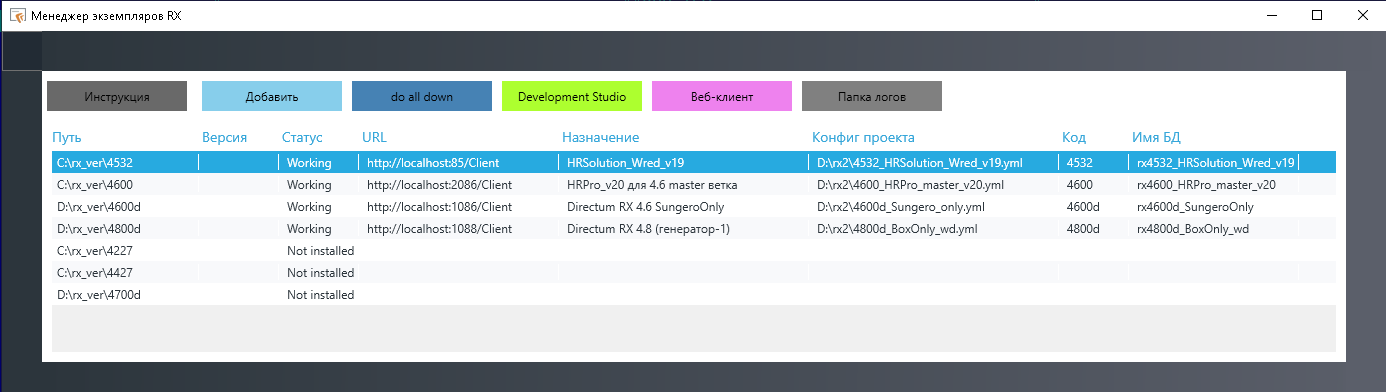
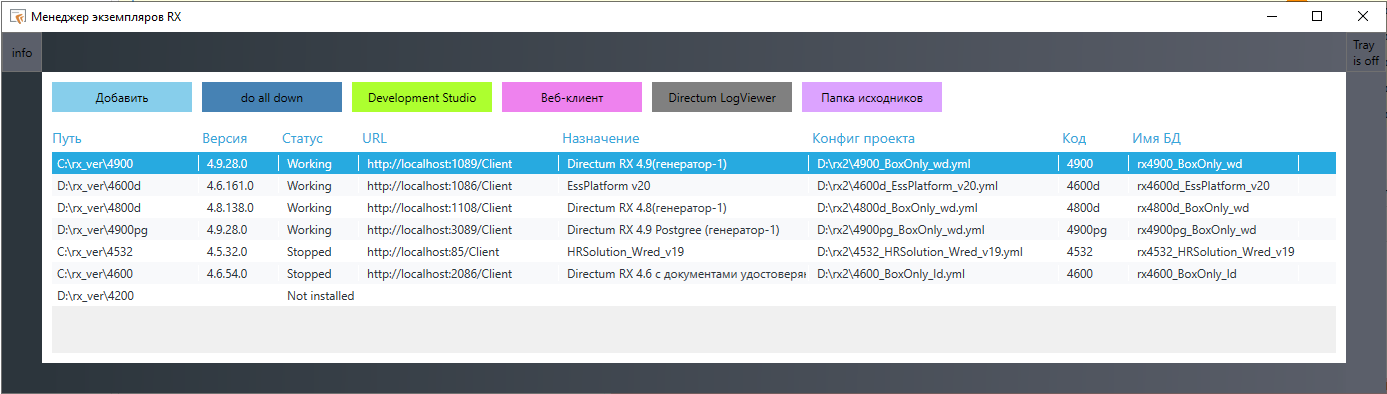
doc: доработана документация

diff --git a/README.md b/README.md
@@ -1,23 +1,66 @@
 # Описание утилиты RX Instance Manager
-Утилита является GUI-обверткой вокруг компоненты Manage Applied Tools
-
 ![](https://github.com/DirectumCompany/rx-instance-manager/blob/main/rx-instance-manager.png)
 
-Возможности RXInstanceManager:
- 1. Добавление инстанса - кнопка "Добавить" и выбрать папку инстанса. Список подключенных инстансов хранится в файле `rxman.yaml` к каталоге приложения.
- 2. Запуск/остановка сервисов инстанса - кнопки "do all up" и "do all down"
- 3. Запуск DDS для инстанса - кнопка "Запустить DDS".
- 4. Открыть веб-клиент в браузере - кнопка "Открыть веб-клиент". Доступна, только если сервисы запущены.
- 5. Открыть папку логов инстанса - кнопка "Папка логов".
- 6. Посмотреть настройки текущего проекта - "скрытая" кнопка без названия в левом верхнем углу окна. Выполняет команду `do map current`
- 7. Изменение проекта инстанса - "Сменить проект" в контекстном меню. Выполняет команду `do map set`
- 8. Создание нового проекта - "Создать проект" в контекстном меню. Выполняет команду `do map create_project`
- 9. Открытие DDS без возможности публикации с выбором конфига проекта - "Открыть DDS без deploy" в контекстном меню. Выполняет команду `do map dds_wo_deploy`
-10. Посмотреть сводку по инстансу - "Сводка по инстансу" в контекстном меню. Показывает основную информацию по инстансу и текущему проекту
-11. Открыть консоль в папке инстанса - "Запустить cmd (от администратора)" в контекстном меню. 
-12. Удалить старые логи текущего инстанса - "Очистить логи" в контекстном меню. Выполняет команду `do map clear_log`
-13. Удалить старые логи всех инстансов - "Очистить логи всех инстансов" в контекстном меню. Выполняет команду `do map clear_log` для каждого инстанса.
-14. Открыть config.yml в редакторе - "Открыть config.yml" в контекстном меню. Открывает config.yml в редакторе, ассоциированном с yml-файлами.
-15. Открыть конфиг проекта в редакторе- "Открыть конфиг проекта" в контекстном меню. Открывает конфиг проекта в редакторе, ассоциированном с yml-файлами.
-16. Конвертировать базы данных проектов после обновления RX - "Конвертировать БД проектов" в контекстном меню. Выполняет команду `do db convert` для баз данных выбранных проектов.
-17. Убрать инстанса из списка - "Убрать инстанс из списка" в контекстном меню. Сам инстанс не удаляется.
+Утилита является GUI-обверткой вокруг компоненты Manage Applied Projects. В большинстве случаев выполнение действий в утилите приводит к выполнению тех или иных команд компоненты Manage Applied Projects. Рекомендуется изучить соответствующие команды.
+
+С помощью утилиты можно запускать и останавливать сервисы Directum RX, переключать экземпляры RX между проектами, быстро смотреть текущие настройки экземпляра RX, быстро открывать логи и некоторые другие типовые операции, с которыми сталкивается прикладной разработчик.
+
+Для управления экземпляром RX его нужно зарегистрировать в утилите кнопкой "Добавить". Список зарегистрированных экземпляров хранится в файле rxman.yaml.
+
+Также есть возможность настраивать UI и поведение утилиты задавая параметры в файле rxman.config. Если этого файла нет, то создается автоматически при запуске утилиты. Подробнее см. раздел "Настройки".
+
+### Интерфейс и возможности утилиты
+
+Кнопки:
+
+1. "Info" - просмотр настроек текущего проекта. Для этого выполняется команда `do map current`.
+2. "Добавить" - добавление нового экземпляра Directum RX в утилиту. Потребуется выбрать каталог, в котором установлен экземпляр Directum RX.
+3. "do all up"/"do all down" - кнопки запуска и остановки сервисов экземпляра Directum RX. Какая кнопка будет доступна зависит от текущего состояния сервисов.
+4. "Development Studio" - запуск Directum Development Studio.
+5. "Веб-клиент" - открыть в браузере веб-клиент текущего экземпляра Directum RX.
+6. "Directum LogViewer" - открыть Directum LogViewer, предварительно "настроив" его на работу с логами текущего экземпляра Directum RX. Настройка производится корректировкой соответствующей записи в реестре. Кнопка видна есть заполнен параметр `logViewer` в настройках и файл, который указан в этом параметре, существует.
+7. "Папка исходников" - открыть папку исходников текущего проекта. Если репозитории в confgi.yml настроены так, что есть только один репозиторий для слоя Work, то откроется папка этого репозитория. Если таких репозиториев несколько - то откроется корневая папки исходников.
+
+Контекстное меню:
+
+1. "Сменить проект" - изменение проекта. Попросит выбрать файл описания проекта и переключит на него текущий экземпляр Directum RX выполнив `do map set`. От значения настройки needCheckAfterSet зависит будет запускаться или проверка отклика сервисов после их перезапуска. Если значение `false` - то проверка отклика выполняться не будет, в результате команда выполнится заметно быстрее и можно будет быстрее запустить DevelopmentStudio. Но в этом случае возможна ситуация, когда сервисы RX не успели до конца загрузиться или при их загрузке произошла какая-то ошибка (например, в случае отсутствия БД).  Значение `true` приводит к более длительному переключению проектов, но при этом разработчик видит  прошло переключение корректно или нет.
+2. "Создать проект" - создание нового проекта. Попросит выбрать файл описания проекта и создаст на основе него новый проект командой  `do map create_project`.  Окно командной строки при выполнении этого пункта меню не закрывается автоматически, чтобы у разработчика была возможность увидеть возможные ошибки при создании проекта. Типовые ошибки - сообщает о существовании либо БД, либо домашнего каталога, указанных в файле описания проекта.
+3. "Создать копию текущего проекта" - создание копии нового проекта. Попросит выбрать файл описания проекта и создаст на основе него копию текущего проекта командой  `do map clones_project`. 
+4. "Пропатчить config.yml" - внести изменения в config.yml на основе какого-то файла описания проекта. Попросит выбрать файл описания проекта и и выполнит команду  `do map update update_config`. 
+5. "Проверить сервисы" - проверяет состояние сервисов RX командой `do all check`. Окно командной строки при выполнении этого пункта меню не закрывается автоматически, чтобы у разработчика была возможность увидеть результаты проверки сервисов. Может быть полезна, например, если есть сомнения в работе сервисов после переключения проекта, если используется "быстрая" версия переключения.
+6. "Открыть DDS без deploy" - открытие DDS без возможности публикации с выбором конфига проекта - "Открыть DDS без deploy" в контекстном меню.  Попросит выбрать файл описания проекта  и выполнит команду `do map dds_wo_deploy`. Может быть полезна для быстрого просмотра исходников другого проекта в этом же экземпляре Directum RX.
+7. "Сводка по инстансу" - показывает основную информацию по экземпляру Directum RX и текущему проекту.
+8. "Запустить cmd (от администратора)" - открывает консоль командной строки в папке текущего экземпляра RX. Может быть полезна для выполнения различных do-команд.
+9. "Очистить логи текущего экземпляра RX" - удаляет старые логи текущего экземпляра Directum RX командой `do map clear_log`. В результате будут удалены логи старее, чем три дня.
+10. "Очистить логи всех экземпляров RX" - удаляет старые логи для всех зарегистрированных экземпляров Directum RX.
+11. "Открыть config.yml" - открывает config.yml текущего экземпляра Directum RX  в приложении, ассоциированном с yml-файлами.
+12. "Открыть конфиг проекта" - открывает файл описания текущего проекта в приложении, ассоциированном с yml-файлами.
+13. "Конвертировать БД проектов" - выполняет команду `do db convert` для текущего проекта, "обновляя" БД до текущей версии платформы Sungero.
+14. "Удалить БД и домашний каталог выбранного проекта" - удаляет БД и домашний каталог п
+15. "Убрать экземпляр RX из списка" - убирает текущий экземпляр Directum RX из списка зарегистрированных в утилите. Сам экземпляр при этом не удаляется.
+16. "Открыть папку экземпляра RX" - открывает папку, в которой развернут текущий экземпляр Directum RX.
+17. "Открыть папку логов" - открывает папку логов текущего экземпляра Directum RX.
+
+### Настройки
+
+Описание параметров в файле настроек rxman.config:
+
+* logViewer - путь к Directum LogViewer.
+* needCheckAfterSet - требуется или нет выполнять проверку отклика сервисов после переключения между проектами. Допустимые значения `true` и `false`.
+* contextMenu - настройки видимости пунктов контекстного меню:
+    * changeProject - Сменить проект
+    * createProject - Создать проект
+    * cloneProject - Создать копию текущего проекта
+    * updateConfig - Пропатчить config.yml
+    * checkServices - Проверить сервисы
+    * runDDSWithOutDeploy - Открыть DDS без deploy
+    * infoContext - Сводка по инстансу
+    * cmdAdminContext - Запустить cmd (от администратора)
+    * clearLogContext - Очистить логи
+    * clearLogAllInstancesContext - Очистить логи всех инстансов
+    * configContext - Открыть config.yml
+    * projectConfigContext - Открыть конфиг проекта
+    * convertDBsContext - Конвертировать БД проектов
+    * removeInstance - Убрать инстанс из списка
+    * openRXFolder - Открыть папку инстанса
+    * openLogFolder - Открыть папку инстанса
